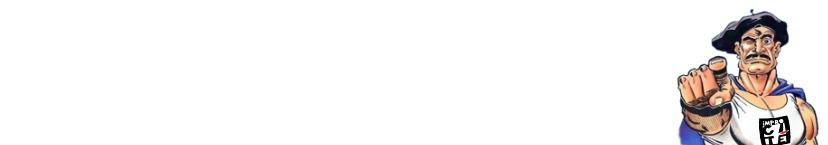
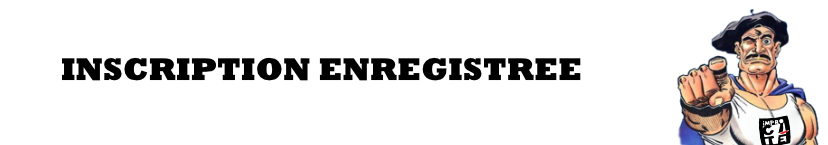
Envoi du mail au participant

Changed region(s): [[0.0604, 0.3862, 0.7246, 0.5517]]

diff --git a/pages/recrutement.php b/pages/recrutement.php
@@ -3,6 +3,9 @@
 # Présentation du recrutement
 $action = $_POST["action"] ? $_POST["action"] : "presentation";
 
+$dates_recrutement = ['Jeudi 5 septembre 2024 à 20h', 'Jeudi 12 septembre 2024 à 20h'];
+$smarty->assign('dates_recrutement', $dates_recrutement);
+
 # Réception du formulaire
 if ($action == "inscription") {
 
@@ -28,6 +31,8 @@ if ($action == "inscription") {
     mail($destinataires_confirmation_interne,"[Improcité] Nouvelle inscription au recrutement !",$mail_confirmation_interne, "MIME-Version: 1.0\r\nContent-Type: text/html; charset=\"utf-8\"\r\nFrom: Improcité <contact@improcite.com>\r\n");
 
     # Envoi d'un mail au participant
+    $mail_confirmation = $smarty->fetch('mails/recrutement.tpl');
+    mail($_POST['mail'],"[Improcité] Inscription au recrutement",$mail_confirmation, "MIME-Version: 1.0\r\nContent-Type: text/html; charset=\"utf-8\"\r\nFrom: Improcité <contact@improcite.com>\r\n");
 
 }
 
